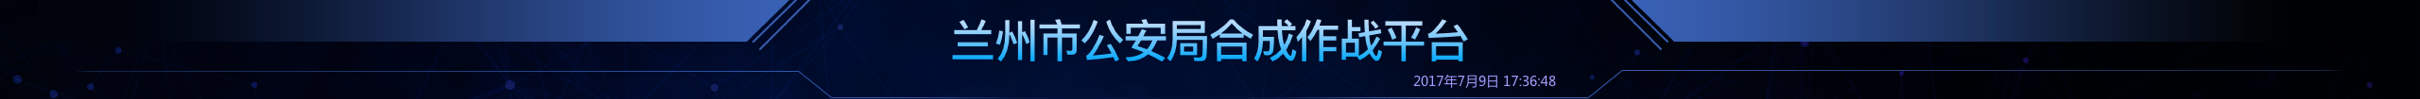
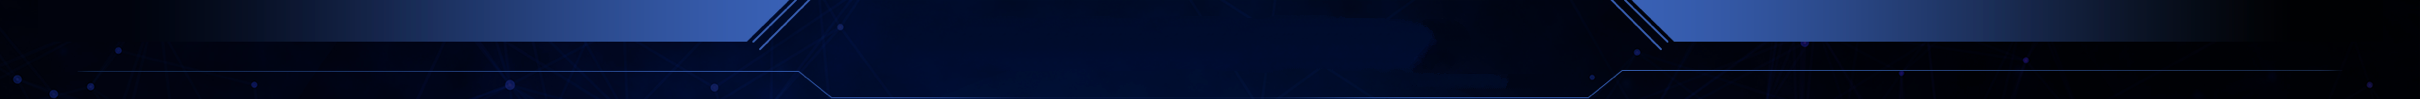
实现标题文字渐变

Changed region(s): [[0.3719, 0.1818, 0.6198, 0.6364], [0.5888, 0.7576, 0.6508, 0.8788]]

diff --git a/src/pages/home.tsx b/src/pages/home.tsx
@@ -8,7 +8,9 @@ export const Home = () => {
   const year = new Date().getFullYear()
   return (
     <div className="home">
-      <header style={{ backgroundImage: `url(${headerBg})` }} />
+      <header style={{ backgroundImage: `url(${headerBg})` }} >
+        <h1>西虹市公安局合成作战平台</h1>
+      </header>
       <main>
         <section className="section1">
           <Chart1 />
@@ -20,7 +22,7 @@ export const Home = () => {
         <section className="section5 bordered"></section>
       </main>
       <footer>
-      &copy; 某市公安局大数据中心 2020-{year}
+      &copy; 西虹市公安局大数据中心 2020-{year}
       </footer>
 
     </div>

diff --git a/src/pages/home.scss b/src/pages/home.scss
@@ -11,8 +11,20 @@
     background-size: cover;
     width: px(2420);
     margin: 0 auto;
+    > h1 {
+      font-weight: 600;
+      line-height: px(44);
+      font-size: px(44);
+      text-align: center;
+      margin-top: px(20);
+      background-image: linear-gradient(180deg, #b2d6f6, #0fa0ef);
+      background-clip: text;
+      -webkit-background-clip: text;
+      color: transparent;
+    }
   }
   > footer {
+    color: #2f59ad;
     height: px(68);
     border: 1px solid #0d2d59;
     margin: px(20) 0 1px;
